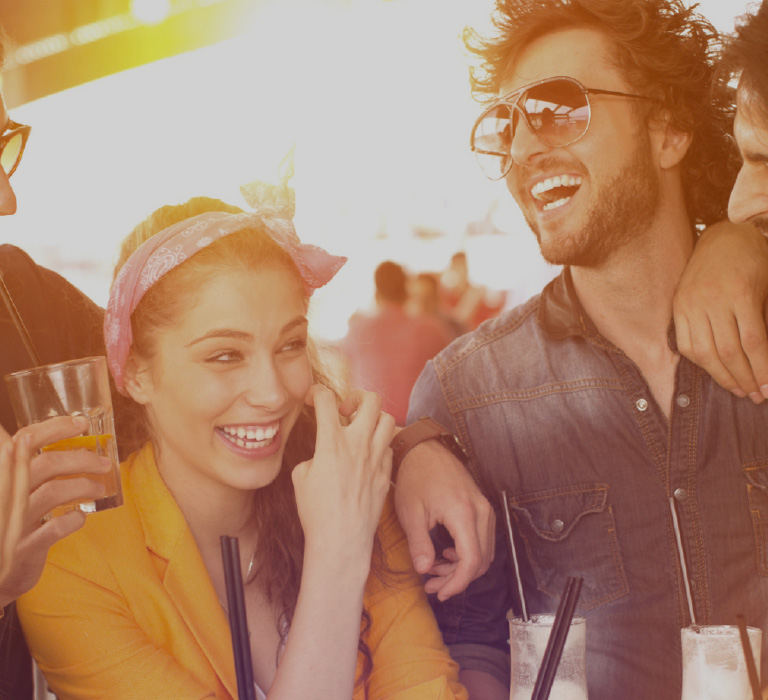
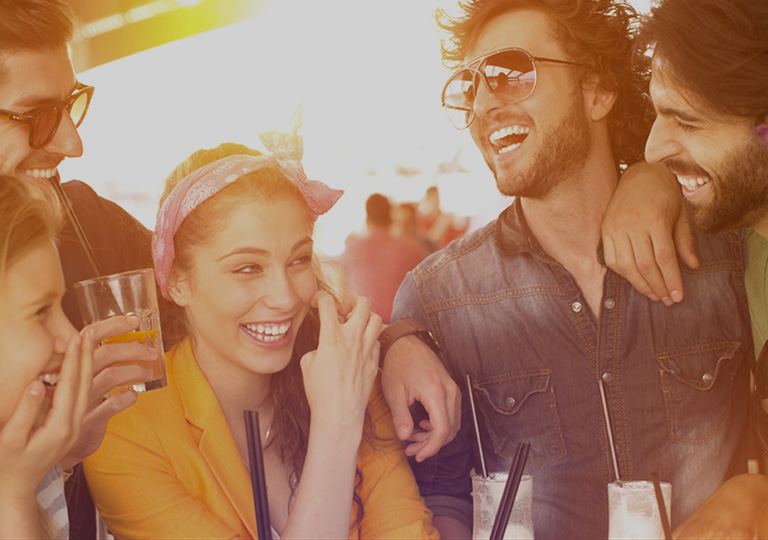
added background: cover

diff --git a/html-css/module-08/css/media.css b/html-css/module-08/css/media.css
@@ -13,7 +13,8 @@
     
     /*navigation*/
     header{
-        background-image: url(../img/promo_768.jpg);
+        background-image: url(../img/promo_940.jpg);
+
     }
 
     .page-nav{
@@ -86,9 +87,9 @@
     }
 
     /*navigation*/
-    header{
+    /* header{
         background-image: url(../img/promo_940.jpg);
-    }
+    } */
 
     .page-nav{
         padding-left: 0px;

diff --git a/html-css/module-08/css/styles.css b/html-css/module-08/css/styles.css
@@ -80,9 +80,10 @@ img{
 header {
     margin: 0px;
     padding: 0px;
-    background-image: url(../img/promo_320.jpg);
+    background-image: url(../img/promo_768.jpg);
     background-repeat: no-repeat;
     background-position: center;
+    background-size: cover;
 }
 
 .page-nav{
